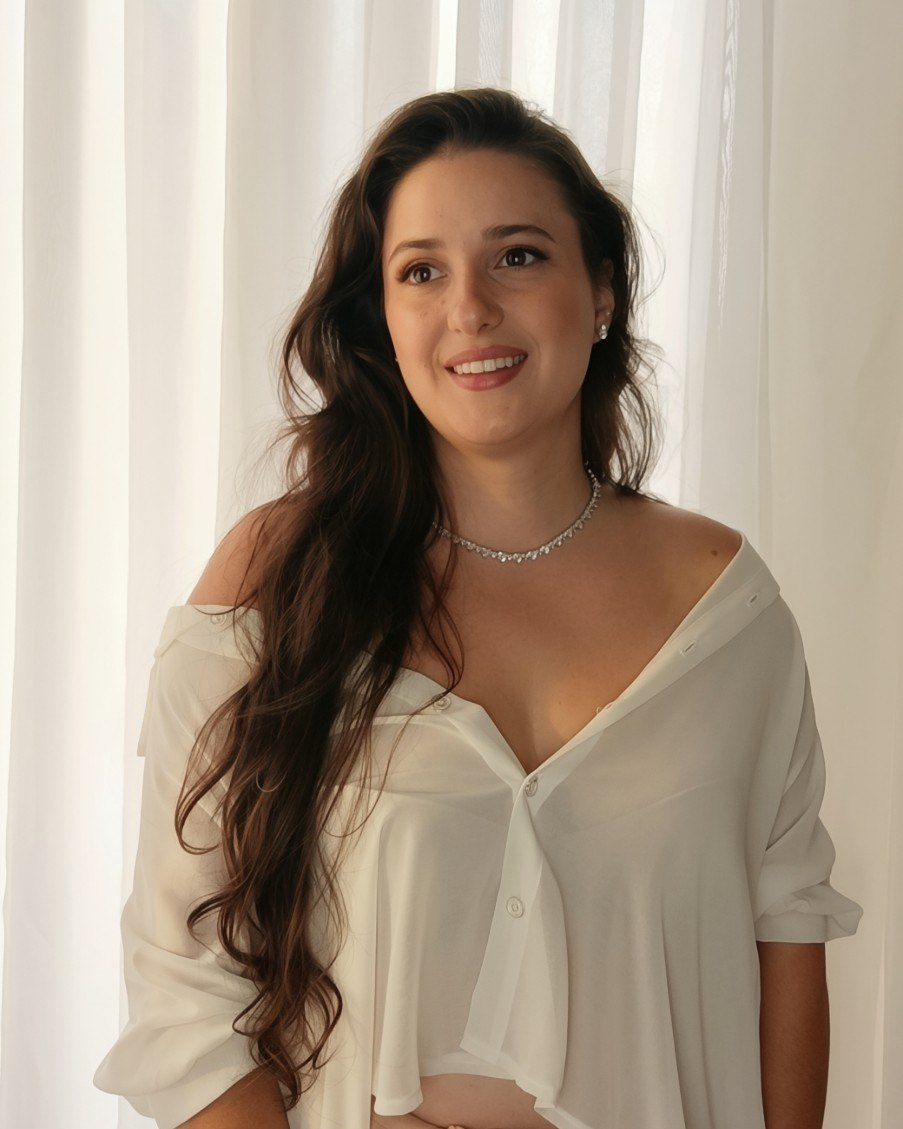
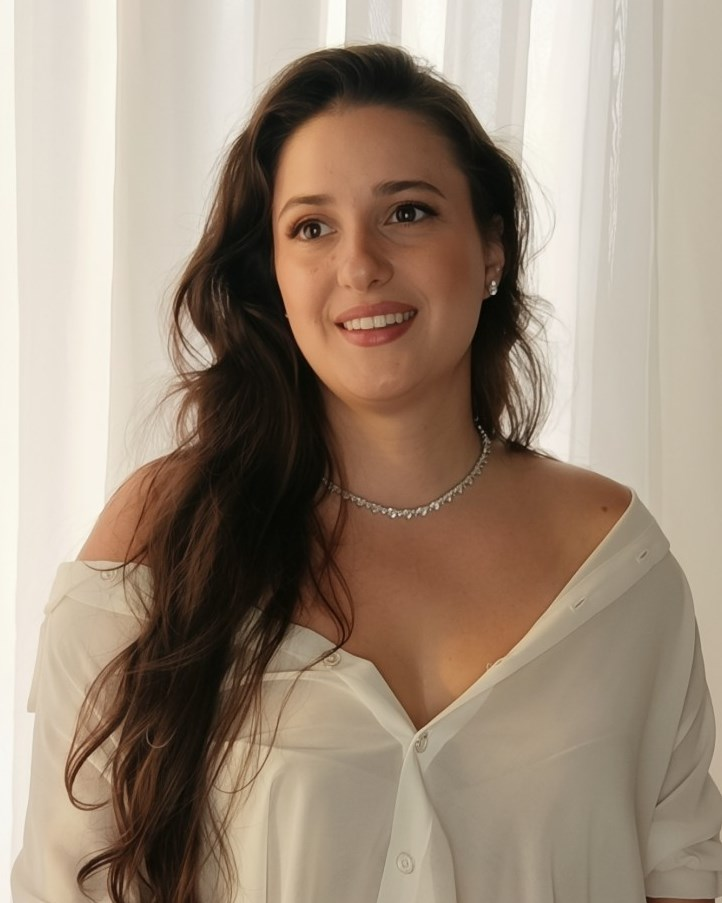
Atualiza portfolio 2026-11-05 09:46

diff --git a/index.html b/index.html
@@ -434,7 +434,7 @@ a.case-video:hover .play{transform:scale(1.08);background:var(--azul)}
     <div class="capa-foto-wrap reveal d2">
       <!-- FOTO DA CAPA: arquivo foto-capa.jpg, na mesma pasta do index -->
       <div class="midia r-4x5">
-        <img src="foto-capa.jpg" alt="Jessica Passos de camisa branca, em pé em frente a uma cortina clara, sorrindo" width="903" height="1129">
+        <img src="foto-capa.jpg" alt="Jessica Passos de camisa branca, em pé em frente a uma cortina clara, sorrindo" width="722" height="903">
       </div>
       <div class="selo"><i aria-hidden="true"></i> Agenda aberta</div>
     </div>
